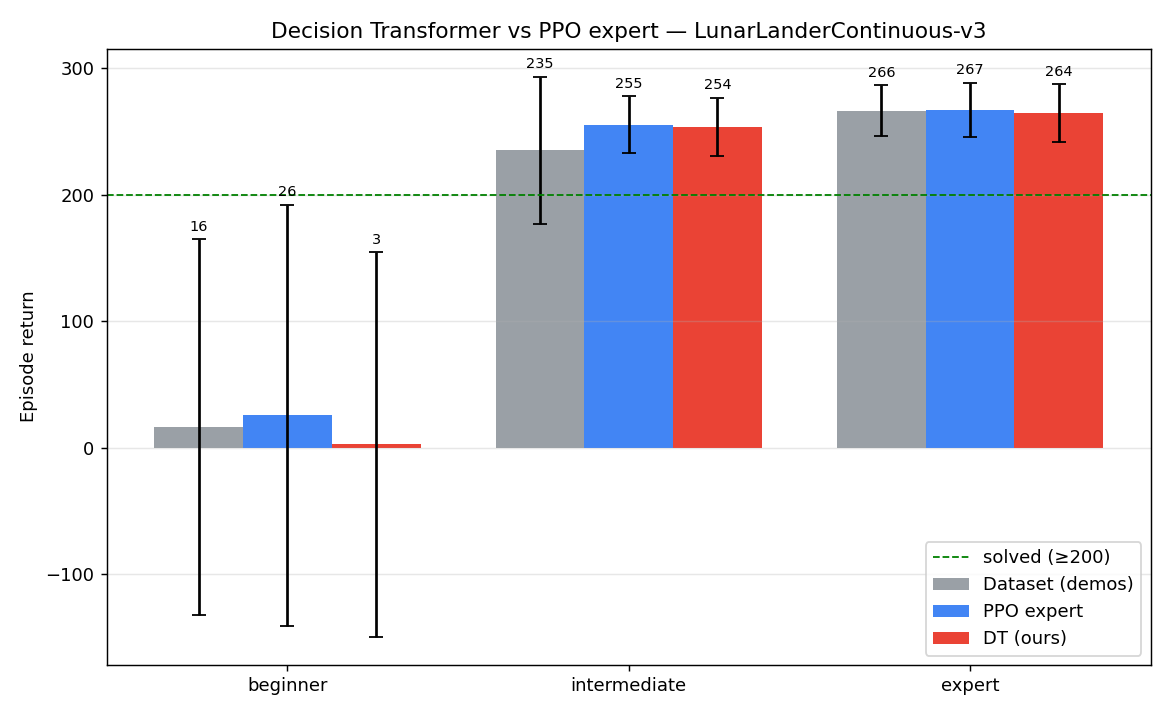
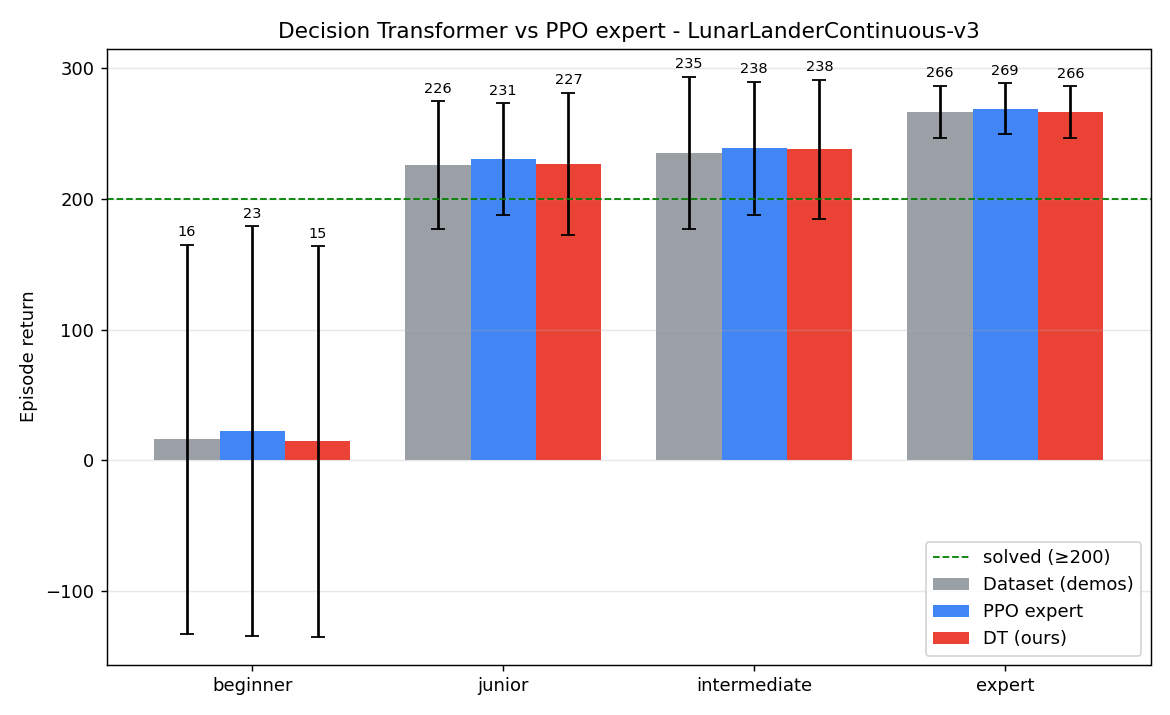
add lab07

diff --git a/lab07/evaluate_dt.py b/lab07/evaluate_dt.py
@@ -26,6 +26,12 @@ def parse_args():
     )
     p.add_argument("--model-path", default=MODEL_PATH, help="Trained DT to load (.pth)")
     p.add_argument("--env", default=ENV_ID, help="Gymnasium env id to play in")
+    p.add_argument(
+        "--target-return",
+        type=float,
+        default=None,
+        help="Target return-to-go to condition on. If omitted, derived from the dataset.",
+    )
     return p.parse_args()
 
 
@@ -43,10 +49,13 @@ def target_return_from_dataset(dataset, top_frac=0.1):
     return float(top.mean())
 
 
-def evaluate(dataset_id, model_path, env_id):
-    dataset = minari.load_dataset(dataset_id)
-    target_return = target_return_from_dataset(dataset)
-    print(f"R̂₁ (mean return of top 10% trajectories) = {target_return:.1f}")
+def evaluate(dataset_id, model_path, env_id, target_return=None):
+    if target_return is None:
+        dataset = minari.load_dataset(dataset_id)
+        target_return = target_return_from_dataset(dataset)
+        print(f"R̂₁ (mean return of top 10% trajectories) = {target_return:.1f}")
+    else:
+        print(f"R̂₁ (user-specified target return) = {target_return:.1f}")
 
     env = gym.make(env_id)
     agent = NanoDTAgent.load(model_path)
@@ -69,8 +78,9 @@ def evaluate(dataset_id, model_path, env_id):
 
 if __name__ == "__main__":
     args = parse_args()
-    evaluate(args.dataset_id, args.model_path, args.env)
+    evaluate(args.dataset_id, args.model_path, args.env, args.target_return)
 
 # uv run python evaluate_dt.py --dataset-id lunarlander/ppo_beginner_100k-v0 --model-path output/dt/ppo_beginner_100k-v0.pth
 # uv run python evaluate_dt.py --dataset-id lunarlander/ppo_beginner_100k-v0 --model-path output/dt/ppo_beginner_100k-v0.pth
 # uv run python evaluate_dt.py --dataset-id lunarlander/ppo_expert_1000k-v0 --model-path output/dt/ppo_expert_1000k-v0.pth
+# uv run python evaluate_dt.py --dataset-id lunarlander/ppo_junior_200k-v0 --model-path output/dt/ppo_junior_200k-v0.pth --target-return 1

diff --git a/lab07/dt_eval.py b/lab07/dt_eval.py
@@ -34,6 +34,11 @@ LEVELS = {
         "dt": "output/dt/ppo_beginner_100k-v0.pth",
         "ppo": "models/ppo_LunarLanderContinuous-v3_100k_s0",
     },
+    "junior": {
+        "dataset": "lunarlander/ppo_junior_200k-v0",
+        "dt": "output/dt/ppo_junior_200k-v0.pth",
+        "ppo": "models/ppo_LunarLanderContinuous-v3_200k_s0",   
+    },
     "intermediate": {
         "dataset": "lunarlander/ppo_intermediate_400k-v0",
         "dt": "output/dt/ppo_intermediate_400k-v0.pth",